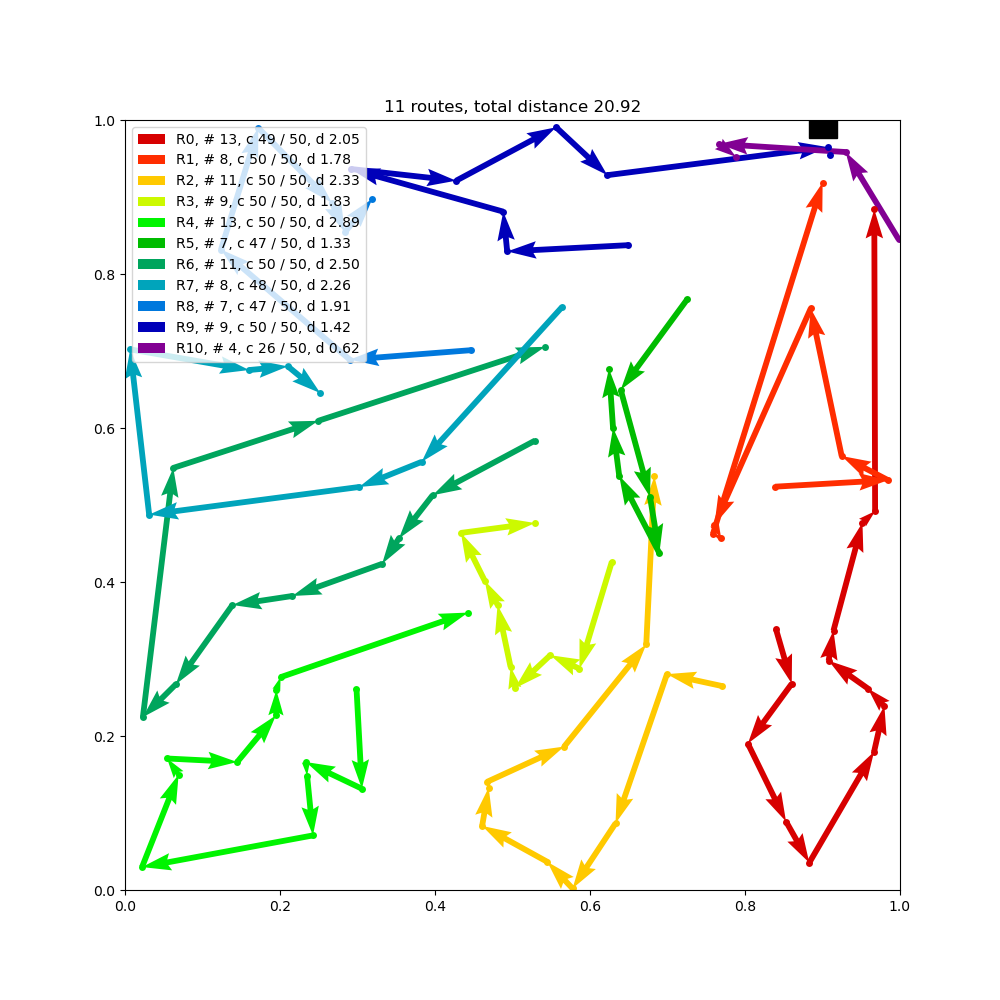
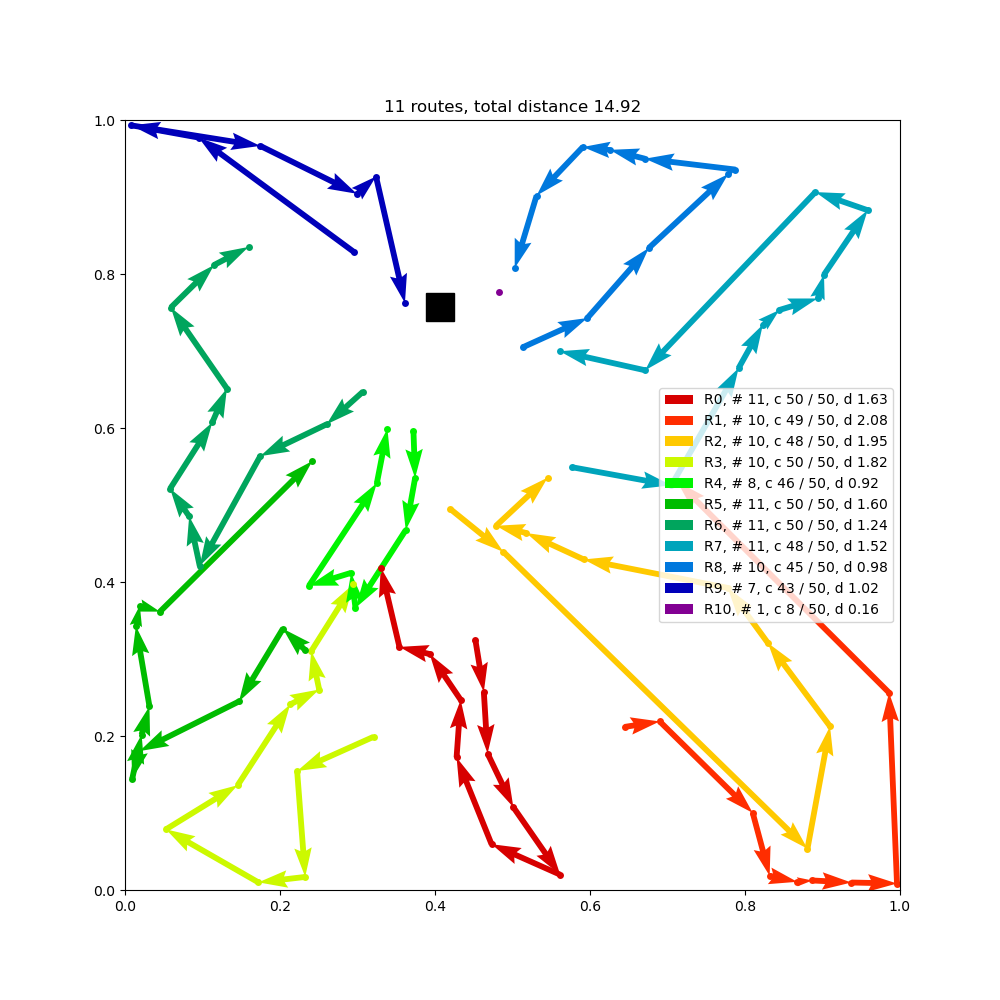
new data

diff --git a/plot_vrp.py b/plot_vrp.py
@@ -158,7 +158,7 @@ model1, _ = load_model('pretrained/cvrp_100/')
 model2, _ = load_model('pretrained/tsp_100/')
 
 torch.manual_seed(1234)
-dataset = CVRP.make_dataset(size=100, num_samples=10)
+dataset = CVRP.make_dataset(filename='data/vrp/vrp100_validation_seed4321.pkl', num_samples=10)
 
 
 # In[5]:
